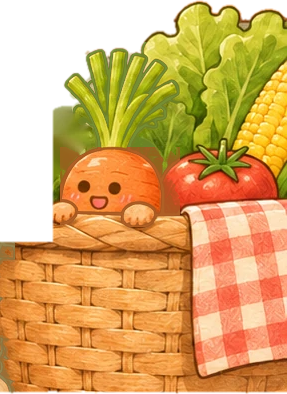
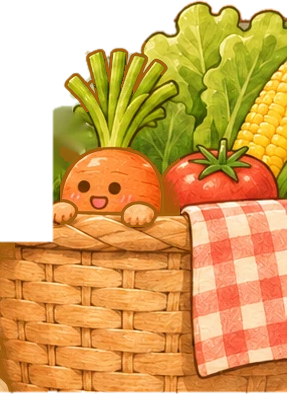
Veggie outlines use the egg's own golden-brown ink (no green halo); basket perch no longer reserves the sound-button margin so the egg actually reaches the rim

diff --git a/src/app/preview/visual/eggPath.ts b/src/app/preview/visual/eggPath.ts
@@ -147,7 +147,8 @@ export function wanderPointsFor(cfg: SlotConfig, view: View & { s?: number }): P
   });
   // 第三站：能放进镜头就换成菜篮边沿上的支点（横版拆层才有道具切片），否则留在台面上
   const Pc = Wd.perch;
-  const perchHi = view.x1 - Wd.margin - reserve - w / 2;
+  // 边沿在半空，不挡右下角声音按钮，所以不留 reserve；蛋心离镜头右缘留 10 + 0.35 个蛋宽就行（半个蛋探出一点也是站在边沿上）
+  const perchHi = view.x1 - 10 - w * 0.35;
   if (!portrait && perchHi >= Pc.minX) pts[2] = { x: Math.round(Math.min(Pc.x, perchHi, Pc.maxX)), y: Pc.y, d: Pc.d };
   return pts;
 }

diff --git a/tools/prepare_planes.py b/tools/prepare_planes.py
@@ -108,23 +108,27 @@ def fill_rows(img: np.ndarray, hole: np.ndarray, usable: np.ndarray, feather: in
 
 # 蛋是金色细线描边，胡萝卜和葱的深棕黑墨线跟它不是一个画风（2026-11-15 用户：蛋的边不动，蔬菜的边改成跟本色相配的暖色）。
 # 只换大块的墨线（轮廓），小块（眼睛、嘴）保持深色。区域是图片像素 (x0, y0, x1, y1)，颜色 RGB。
+# 取自蛋图外沿（public/assets/scene/egg.webp 边缘像素中位数 ≈ (177,103,14)，深的一半 (167,93,5)）：蛋、葱、胡萝卜描边同一个金棕色
+EGG_INK = (168, 96, 10)
 INK_RECOLOR = [
-    ((1445, 425, 1565, 505), (176, 96, 38)),  # 胡萝卜身子和手：焦橙
-    ((1445, 320, 1565, 425), (118, 142, 52)),  # 胡萝卜叶子：橄榄绿
-    ((1296, 519, 1400, 710), (150, 132, 78)),  # 葱身子：暖金棕
+    ((1445, 425, 1565, 505), EGG_INK),  # 胡萝卜身子和手
+    ((1445, 320, 1565, 425), EGG_INK),  # 胡萝卜叶子
+    ((1296, 519, 1400, 710), EGG_INK),  # 葱身子
 ]
 LEAVES_PNG = ROOT / "public/assets/bg/friends-scallion-leaves.png"  # 葱叶角色层（tools/prepare_friends.py 生成，这里再换一次墨线色）
-LEAVES_COLOR = (118, 142, 52)
+LEAVES_COLOR = EGG_INK
 
 
 def recolor_ink(rgb: np.ndarray, box: tuple[int, int, int, int], color: tuple[int, int, int], min_area: int = 800) -> np.ndarray:
     x0, y0, x1, y1 = box
     sub = rgb[y0:y1, x0:x1].astype(np.float32)
     lum = cv2.cvtColor(rgb[y0:y1, x0:x1], cv2.COLOR_RGB2GRAY).astype(np.float32)
-    lab, n = ndimage.label(lum <= INK)
+    hue = cv2.cvtColor(rgb[y0:y1, x0:x1], cv2.COLOR_RGB2HSV)[..., 0] * 2
+    ink = (lum <= INK) & ~((hue >= 60) & (hue <= 170))  # 绿色的暗块（叶子阴影、补墙的模糊）不是墨线
+    lab, n = ndimage.label(ink)
     sizes = ndimage.sum(np.ones_like(lab), lab, range(1, n + 1))
     keep = np.isin(lab, [i + 1 for i, a in enumerate(sizes) if a >= min_area])
-    near = ndimage.binary_dilation(keep, iterations=2)
+    near = ndimage.binary_dilation(keep, iterations=2) & ~((hue >= 60) & (hue <= 170))
     w = np.clip((150 - lum) / 90, 0, 1) * near
     out = sub * (1 - w[..., None]) + np.array(color, np.float32) * w[..., None]
     res = rgb.copy()
